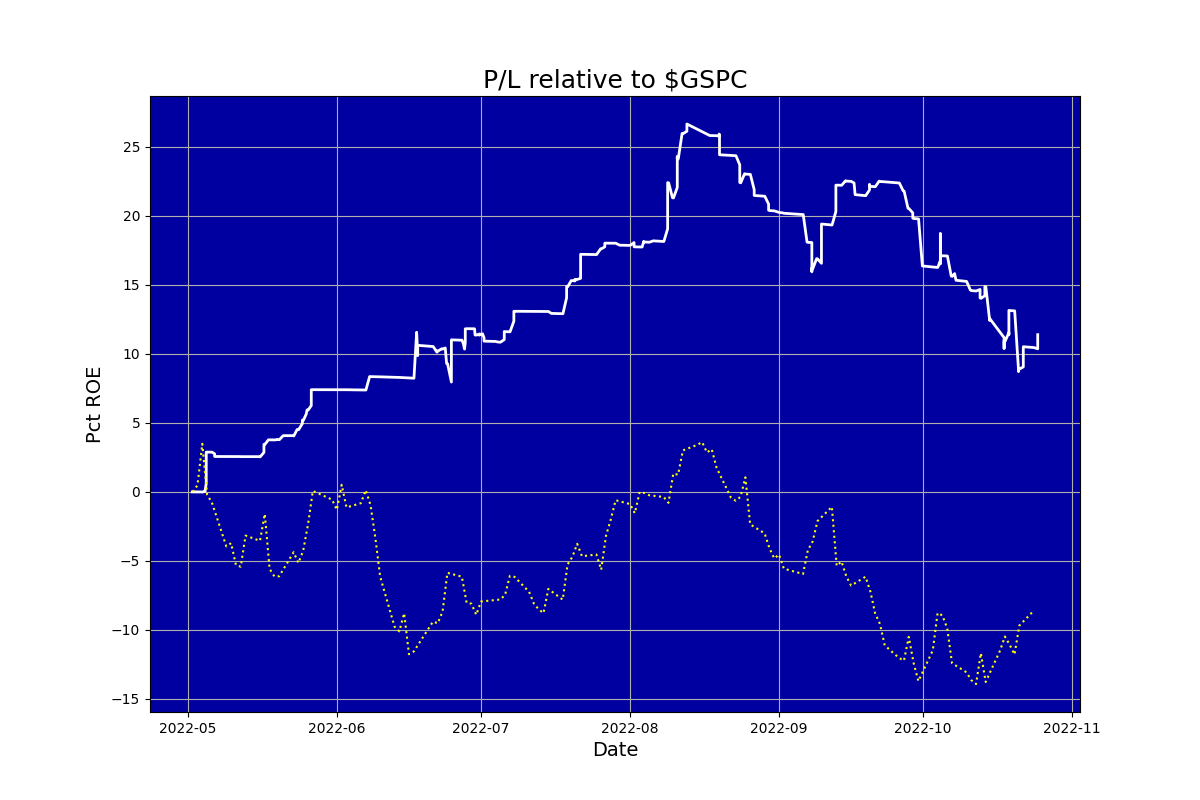
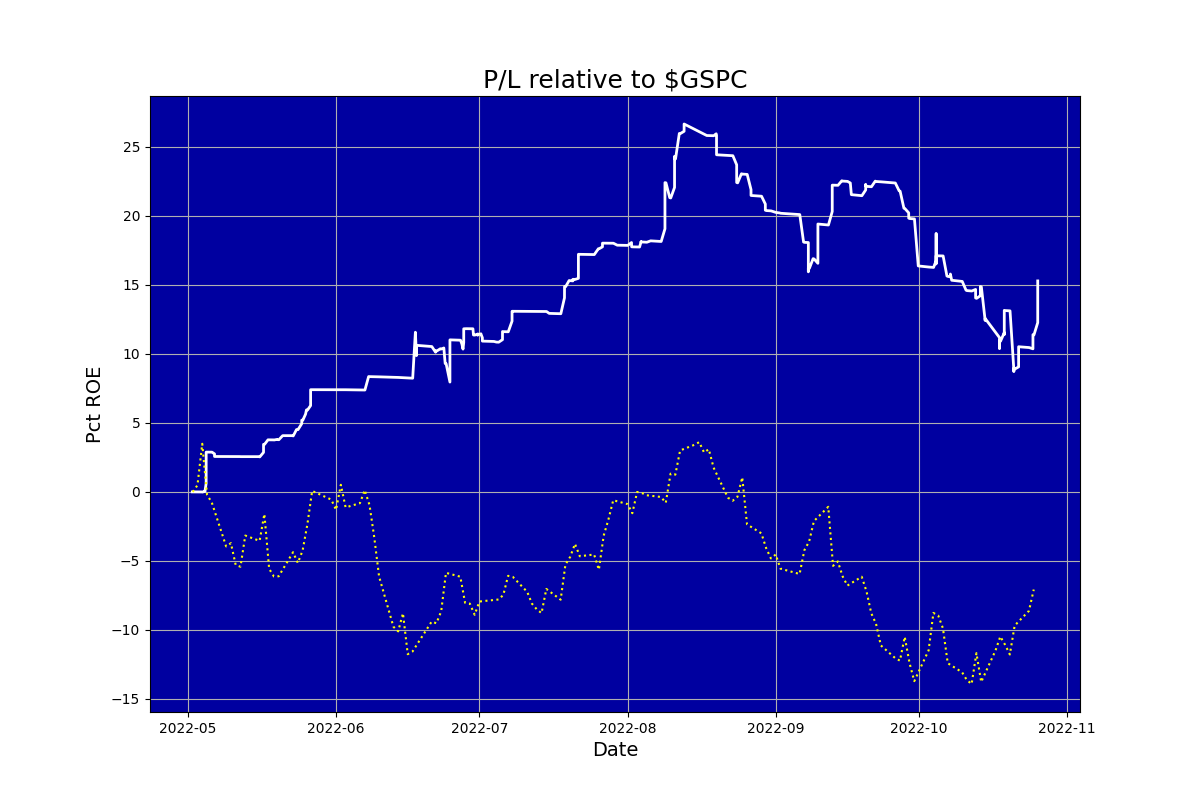
Updated

diff --git a/ig_report.html b/ig_report.html
@@ -1,1 +1,1 @@
-<html><body><center><h1>Auriel (never knowingly overbought)</h1></center><table cols=2><tr><td><img src=ig_pl.png></td><td><table cols=2><tr><td colspan=2><b><br>Snapshot</b></td></tr><tr><td>Last updated:&nbsp;&nbsp;&nbsp;</td><td>2022-10-24 15:57</td></tr><tr><td>Funds:&nbsp;&nbsp;&nbsp;</td><td>12861.24</td></tr><tr><td>Margin:&nbsp;&nbsp;&nbsp;</td><td>0.25</td></tr><tr><td>Cushion:&nbsp;&nbsp;&nbsp;</td><td>-2339.24</td></tr><tr><td>Last closed trade:&nbsp;&nbsp;&nbsp;</td><td>2022-10-24</td></tr><tr><td colspan=2><b><br>Positions</b></td></tr><tr><td>Mean days to new high:&nbsp;&nbsp;&nbsp;</td><td>6.54</td></tr><tr><td colspan=2><b><br>Trades</b></td></tr><tr><td>Num trades:&nbsp;&nbsp;&nbsp;</td><td>176</td></tr><tr><td>Pct winners:&nbsp;&nbsp;&nbsp;</td><td>61.36</td></tr><tr><td>Pct beating benchmark:&nbsp;&nbsp;&nbsp;</td><td>61.14</td></tr><tr><td>Pct profitable months:&nbsp;&nbsp;&nbsp;</td><td>66.67</td></tr><tr><td colspan=2><b><br>Performance</b></td></tr><tr><td>Pct median monthly ROE:&nbsp;&nbsp;&nbsp;</td><td>3.49</td></tr><tr><td>Pct annualised ROE:&nbsp;&nbsp;&nbsp;</td><td>45.39</td></tr><tr><td colspan=2><b><br>Risk</b></td></tr><tr><td>Volatility pct:&nbsp;&nbsp;&nbsp;</td><td>23.04</td></tr><tr><td>Benchmark volatility pct:&nbsp;&nbsp;&nbsp;</td><td>25.36</td></tr><tr><td>Sharpe ratio:&nbsp;&nbsp;&nbsp;</td><td>1.88</td></tr><tr><td>Calmar ratio:&nbsp;&nbsp;&nbsp;</td><td>2.79</td></tr><tr><td>Worst drawdown pct:&nbsp;&nbsp;&nbsp;</td><td>-0.16</td></tr><tr><td>Recovery days from worst drawdown:&nbsp;&nbsp;&nbsp;</td><td>9999.00</td></tr><tr><td>Beat benchmark +ve periods pct:&nbsp;&nbsp;&nbsp;</td><td>0.78</td></tr><tr><td>Beat benchmark -ve periods pct:&nbsp;&nbsp;&nbsp;</td><td>0.88</td></tr><tr><td>Correlation with benchmark:&nbsp;&nbsp;&nbsp;</td><td>0.42</td></tr></table></td></tr></table></body></html>
+<html><body><center><h1>Auriel (never knowingly overbought)</h1></center><table cols=2><tr><td><img src=ig_pl.png></td><td><table cols=2><tr><td colspan=2><b><br>Snapshot</b></td></tr><tr><td>Last updated:&nbsp;&nbsp;&nbsp;</td><td>2022-10-25 15:57</td></tr><tr><td>Funds:&nbsp;&nbsp;&nbsp;</td><td>13389.23</td></tr><tr><td>Margin:&nbsp;&nbsp;&nbsp;</td><td>0.10</td></tr><tr><td>Cushion:&nbsp;&nbsp;&nbsp;</td><td>-2027.20</td></tr><tr><td>Last closed trade:&nbsp;&nbsp;&nbsp;</td><td>2022-10-25</td></tr><tr><td colspan=2><b><br>Positions</b></td></tr><tr><td>Mean days to new high:&nbsp;&nbsp;&nbsp;</td><td>6.52</td></tr><tr><td colspan=2><b><br>Trades</b></td></tr><tr><td>Num trades:&nbsp;&nbsp;&nbsp;</td><td>180</td></tr><tr><td>Pct winners:&nbsp;&nbsp;&nbsp;</td><td>62.22</td></tr><tr><td>Pct beating benchmark:&nbsp;&nbsp;&nbsp;</td><td>62.01</td></tr><tr><td>Pct profitable months:&nbsp;&nbsp;&nbsp;</td><td>66.67</td></tr><tr><td colspan=2><b><br>Performance</b></td></tr><tr><td>Pct median monthly ROE:&nbsp;&nbsp;&nbsp;</td><td>3.49</td></tr><tr><td>Pct annualised ROE:&nbsp;&nbsp;&nbsp;</td><td>58.17</td></tr><tr><td colspan=2><b><br>Risk</b></td></tr><tr><td>Volatility pct:&nbsp;&nbsp;&nbsp;</td><td>23.90</td></tr><tr><td>Benchmark volatility pct:&nbsp;&nbsp;&nbsp;</td><td>25.62</td></tr><tr><td>Sharpe ratio:&nbsp;&nbsp;&nbsp;</td><td>2.35</td></tr><tr><td>Calmar ratio:&nbsp;&nbsp;&nbsp;</td><td>3.58</td></tr><tr><td>Worst drawdown pct:&nbsp;&nbsp;&nbsp;</td><td>-0.16</td></tr><tr><td>Recovery days from worst drawdown:&nbsp;&nbsp;&nbsp;</td><td>9999.00</td></tr><tr><td>Beat benchmark +ve periods pct:&nbsp;&nbsp;&nbsp;</td><td>0.77</td></tr><tr><td>Beat benchmark -ve periods pct:&nbsp;&nbsp;&nbsp;</td><td>0.88</td></tr><tr><td>Correlation with benchmark:&nbsp;&nbsp;&nbsp;</td><td>0.43</td></tr></table></td></tr></table></body></html>
